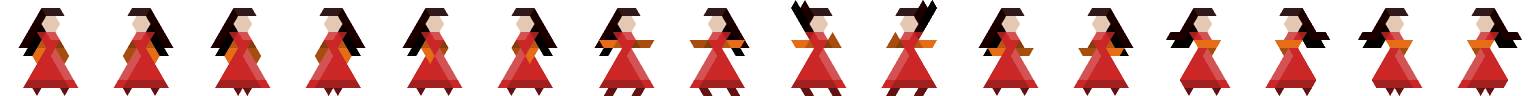
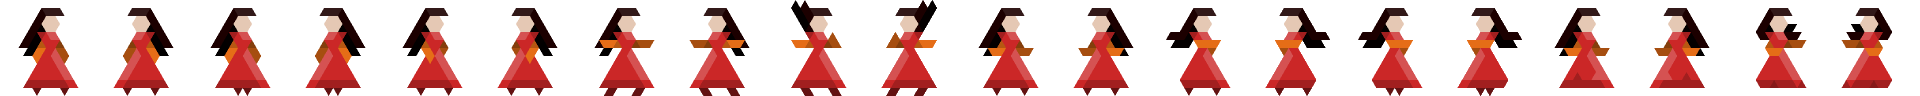
Firing in air + recoil.

diff --git a/src/Player.js b/src/Player.js
@@ -26,6 +26,9 @@ var Player = function(game) {
     this.WALK_SPEED = 400;
     this.RUN_SPEED = 600;
     this.JUMP_SPEED = -900;
+    this.FIRING_RECOIL_Y = -200;
+    this.FIRING_RECOIL_X = 400;
+    this.FIRING_FPS = 6;
 
     this.speed = this.WALK_SPEED;
     this.direction = "right";
@@ -51,14 +54,18 @@ Player.prototype = {
         this.sprite.animations.add("walkleft", [3, 5], 6, true);
         this.sprite.animations.add("runright", [2, 4], 10, true);
         this.sprite.animations.add("runleft", [3, 5], 10, true);
+        this.sprite.animations.add("jumpright", [16], 1, true);
+        this.sprite.animations.add("jumpleft", [17], 1, true);
         this.sprite.animations.add("upright", [6], 1, true);
         this.sprite.animations.add("upleft", [7], 1, true);
         this.sprite.animations.add("downright", [8], 1, true);
         this.sprite.animations.add("downleft", [9], 1, true);
-        this.sprite.animations.add("fireright", [10, 12], 6, false);
-        this.sprite.animations.add("fireleft", [11, 13], 6, false);
-        this.sprite.animations.add("firewalkright", [10, 14], 6, false);
-        this.sprite.animations.add("firewalkleft", [11, 15], 6, false);
+        this.sprite.animations.add("fireright", [10, 12], this.FIRING_FPS, false);
+        this.sprite.animations.add("fireleft", [11, 13], this.FIRING_FPS, false);
+        this.sprite.animations.add("firewalkright", [10, 14], this.FIRING_FPS, false);
+        this.sprite.animations.add("firewalkleft", [11, 15], this.FIRING_FPS, false);
+        this.sprite.animations.add("firejumpright", [16, 18], this.FIRING_FPS, false);
+        this.sprite.animations.add("firejumpleft", [17, 19], this.FIRING_FPS, false);
 
         this.game.physics.enable(this.sprite, Phaser.Physics.ARCADE);
         this.sprite.body.maxVelocity.setTo(MAX_VEL);
@@ -119,20 +126,28 @@ Player.prototype = {
             this.firing = false;
             this.fired = false;
         }
-        if (input.pressedFire() && !this.firing && this.onFloor) {
+        if (input.pressedFire() && !this.firing) {
             this.firing = true;
-            this.firingTime = this.game.time.now + 1000 / 6;
+            this.firingTime = this.game.time.now + 1000 / (this.FIRING_FPS);
         }
         if (this.firingAnim && this.game.time.now > this.firingTime && !this.fired) {
             if (this.direction == "left") {
                 launchMissile(this.direction, this.sprite.x + 29, this.sprite.y + 43);
-                this.sprite.body.velocity.x += 600;
+                this.sprite.body.velocity.x += this.FIRING_RECOIL_X;
+                if (!this.onFloor) {
+                    this.sprite.body.velocity.x += this.FIRING_RECOIL_X;
+                    this.sprite.body.velocity.y = this.FIRING_RECOIL_Y;
+                }
             } else {
                 launchMissile(this.direction, this.sprite.x + 67, this.sprite.y + 43);
-                this.sprite.body.velocity.x -= 600;
+                this.sprite.body.velocity.x -= this.FIRING_RECOIL_X;
+                if (!this.onFloor) {
+                    this.sprite.body.velocity.x -= this.FIRING_RECOIL_X;
+                    this.sprite.body.velocity.y = this.FIRING_RECOIL_Y;
+                }
             }
             this.fired = true;
-            this.firingTime = this.game.time.now + 1000 / 6;
+            this.firingTime = this.game.time.now + 1000 / (this.FIRING_FPS * 1.5);
         }
     },
 
@@ -158,10 +173,17 @@ Player.prototype = {
                 }
             }
         } else {
-            if (this.sprite.body.velocity.y > 0) {
-                this.sprite.animations.play("down" + this.direction);
-            } else {
-                this.sprite.animations.play("up" + this.direction);
+            if (this.firing && !this.firingAnim) {
+                this.sprite.animations.play("firejump" + this.direction);
+                this.firingAnim = true;
+            } else if (!this.firingAnim) {
+                if (this.sprite.body.velocity.y > 0) {
+                    this.sprite.animations.play("down" + this.direction);
+                } else if (this.sprite.body.velocity.y > this.JUMP_SPEED / 10 * 7) {
+                    this.sprite.animations.play("up" + this.direction);
+                } else {
+                    this.sprite.animations.play("jump" + this.direction);
+                }
             }
         }
     },
